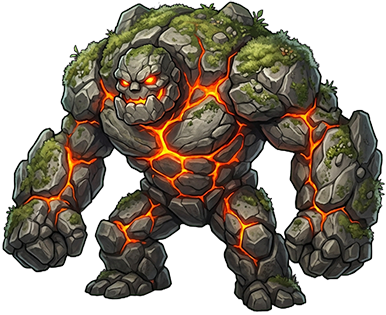
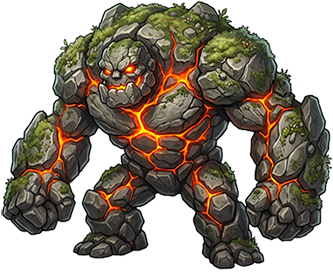
Combat: Rock Golem uses its own art (idle, attack lunge, hurt, death); feet kept on one spot
Claude-Session: https://claude.ai/code/session_01W4v7cyzS6Fr8aMVaGgywWE

diff --git a/js/ui.js b/js/ui.js
@@ -126,12 +126,32 @@ const COMBAT_MONSTER_ATTACK_MS = 300; // attack pose shown when a monster attack
 const COMBAT_MONSTER_LUNGE_PX = -40;  // monsters stand to the right of the player, so forward is left
 const COMBAT_DEATH_TOTAL_MS = COMBAT_SLIME_DEATH_FRAMES.length * COMBAT_DEATH_FRAME_MS;
 // Monsters with their own art, by monster id. Others use the slime frames (colour comes from CSS).
-// bob: a slow 3px up-and-down while idle. dead: death frames, each shown for deathMs.
-const MONSTER_SPRITES = {}; // all monsters use the slime art for now
+// idle: looping frames. attack: frame shown during the attack lunge. hurt: frames shown on a hit.
+// dead: death frames, each shown for deathMs. shift: px offset per frame (keeps the feet on one spot;
+// the frame is natural size, so frames with a different width are centred by their bounding box).
+const MONSTER_SPRITES = {
+    M006: {
+        idle: ['assets/combat/rockgolem/rockgolem.png'],
+        attack: ['assets/combat/rockgolem/rockgolemattack.png'],
+        hurt: ['assets/combat/rockgolem/rockgolemdamaged.png'],
+        dead: ['assets/combat/rockgolem/rockgolemdead.png'],
+        deathMs: 600,
+        shift: { 'assets/combat/rockgolem/rockgolemattack.png': -7, 'assets/combat/rockgolem/rockgolemdamaged.png': 5, 'assets/combat/rockgolem/rockgolemdead.png': 7 }
+    }
+};
 function monsterSpriteOf(m) { return MONSTER_SPRITES[m.id] || null; }
 function monsterDeathFrames(m) { const s = monsterSpriteOf(m); return s ? s.dead : COMBAT_SLIME_DEATH_FRAMES; }
 function monsterDeathMs(m) { const s = monsterSpriteOf(m); return s ? s.deathMs : COMBAT_DEATH_FRAME_MS; }
 function monsterDeathTotalMs(m) { return monsterDeathFrames(m).length * monsterDeathMs(m); }
+function monsterAttackFrame(m) { const s = monsterSpriteOf(m); return s && s.attack ? s.attack[0] : COMBAT_SLIME_ATTACK_FRAME; }
+function monsterHurtFrames(m) { const s = monsterSpriteOf(m); return s ? (s.hurt || []) : COMBAT_SLIME_DAMAGE_FRAMES; }
+// Show a monster frame on its card image, applying that frame's feet shift (px)
+function setMonsterFrame(img, src) {
+    img.src = src;
+    const s = MONSTER_SPRITES[img.dataset.sprite];
+    const dx = (s && s.shift && s.shift[src]) || 0;
+    if (img.style.left !== dx + 'px') img.style.left = dx + 'px';
+}
 const COMBAT_SLIME_FRAMES = 'assets/combat/slime/slimebase.png';
 const COMBAT_CHA_FRAMES = Array.from({ length: 12 }, (_, i) => `assets/combat/cha/cha_idle_${String(i + 1).padStart(4, '0')}.png`).join(',');
 // Floating damage number over a combat sprite: bold white normal, bold orange critical
@@ -228,7 +248,7 @@ function startMonsterAttack(m) {
     if (!el) return;
     el.dataset.attackAt = String(m._attackAt);
     el.dataset.lungeAt = String(m._attackAt);
-    el.src = COMBAT_SLIME_ATTACK_FRAME;
+    setMonsterFrame(el, monsterAttackFrame(m));
     lungeEl(el, COMBAT_MONSTER_LUNGE_PX, 0);
 }
 // Short lunge of the player sprite (dx px out and back, 0.2s)
@@ -314,16 +334,15 @@ setInterval(() => {
             const total = Number(img.dataset.deathTotal) || COMBAT_DEATH_TOTAL_MS;
             const ms = Number(img.dataset.deathMs) || COMBAT_DEATH_FRAME_MS;
             const dead = img.dataset.deathFrames ? img.dataset.deathFrames.split(',') : COMBAT_SLIME_DEATH_FRAMES;
-            if (e < total) img.src = dead[Math.min(dead.length - 1, Math.floor(e / ms))];
+            if (e < total) setMonsterFrame(img, dead[Math.min(dead.length - 1, Math.floor(e / ms))]);
             else if (img.parentElement) img.parentElement.style.display = 'none';
             return;
         }
         const hitAt = Number(img.dataset.hitAt) || 0;
         const elapsed = now - hitAt;
         if (hitAt && elapsed >= 0 && elapsed < COMBAT_SLIME_DAMAGE_FRAMES.length * COMBAT_DAMAGE_FRAME_MS) {
-            // Monsters with their own art keep their idle frame here (data-hurt-frames is empty); the red flash still plays
             const hurt = img.dataset.hurtFrames ? img.dataset.hurtFrames.split(',') : [];
-            if (hurt.length) img.src = hurt[Math.min(hurt.length - 1, Math.floor(elapsed / COMBAT_DAMAGE_FRAME_MS))];
+            if (hurt.length) setMonsterFrame(img, hurt[Math.min(hurt.length - 1, Math.floor(elapsed / COMBAT_DAMAGE_FRAME_MS))]);
             // Same red flash as the player's battle sprite (first 300ms of the hit)
             img.style.filter = elapsed < 300 ? 'brightness(1.8) sepia(1) hue-rotate(-50deg) saturate(5)' : '';
             return;
@@ -332,11 +351,11 @@ setInterval(() => {
         const atkAt = Number(img.dataset.attackAt) || 0;
         const ae = now - atkAt;
         if (atkAt && ae >= 0 && ae < COMBAT_MONSTER_ATTACK_MS) {
-            img.src = COMBAT_SLIME_ATTACK_FRAME;
+            setMonsterFrame(img, img.dataset.attackFrame || COMBAT_SLIME_ATTACK_FRAME);
             return;
         }
         const frames = img.dataset.frames.split(',');
-        img.src = frames[Math.floor(now / 250) % frames.length]; // idle: one frame every 250ms
+        setMonsterFrame(img, frames[Math.floor(now / 250) % frames.length]); // idle: one frame every 250ms
     });
 }, 60);
 
@@ -2384,7 +2403,7 @@ function updateUI() {
             if (p) cardStyle += `${cardStyle ? '; ' : ''}left:${p[0]}px; top:${p[1]}px`;
             lineupContainer.innerHTML += `
                 <div class="flex flex-col items-center gap-1" data-pos="${posIdx}" data-slot="${hasSlot ? 'y' : ''}"${cardStyle ? ` style="${cardStyle}"` : ''}>
-                    <div style="height:100px; display:flex; align-items:flex-end; justify-content:center;">${(() => { const sp = monsterSpriteOf(m); const idle = sp ? sp.idle.join(',') : COMBAT_SLIME_FRAMES; const dead = monsterDeathFrames(m); return `<img class="idle-anim monster-idle ${monsterTintClass(m)}" data-frames="${idle}" data-hit-at="${m._hitAt || 0}" data-death-at="${m._deathAt || 0}" data-attack-at="${m._attackAt || 0}" data-lunge-at="${m._animAt || 0}" data-attack-frame="${COMBAT_SLIME_ATTACK_FRAME}" data-hurt-frames="${sp ? '' : COMBAT_SLIME_DAMAGE_FRAMES.join(',')}" data-death-frames="${dead.join(',')}" data-death-ms="${monsterDeathMs(m)}" data-death-total="${monsterDeathTotalMs(m)}" src="${idle.split(',')[0]}" alt="" style="image-rendering:pixelated; pointer-events:none; animation-delay:-${((idx * 0.37) % 1.8).toFixed(2)}s;">`; })()}</div>
+                    <div style="height:100px; display:flex; align-items:flex-end; justify-content:center;">${(() => { const sp = monsterSpriteOf(m); const idle = sp ? sp.idle.join(',') : COMBAT_SLIME_FRAMES; const dead = monsterDeathFrames(m); return `<img class="idle-anim monster-idle ${monsterTintClass(m)}" data-sprite="${m.id}" data-frames="${idle}" data-hit-at="${m._hitAt || 0}" data-death-at="${m._deathAt || 0}" data-attack-at="${m._attackAt || 0}" data-lunge-at="${m._animAt || 0}" data-attack-frame="${monsterAttackFrame(m)}" data-hurt-frames="${monsterHurtFrames(m).join(',')}" data-death-frames="${dead.join(',')}" data-death-ms="${monsterDeathMs(m)}" data-death-total="${monsterDeathTotalMs(m)}" src="${idle.split(',')[0]}" alt="" style="image-rendering:pixelated; pointer-events:none; position:relative; animation-delay:-${((idx * 0.37) % 1.8).toFixed(2)}s;">`; })()}</div>
                     <div class="w-[200px] p-2.5 rounded-lg border ${borderColor} flex flex-col gap-1.5 transition-all">
                         <div class="flex justify-between items-center gap-2 text-xs">
                             <span class="font-bold text-red-400 truncate">${m.name}</span>
